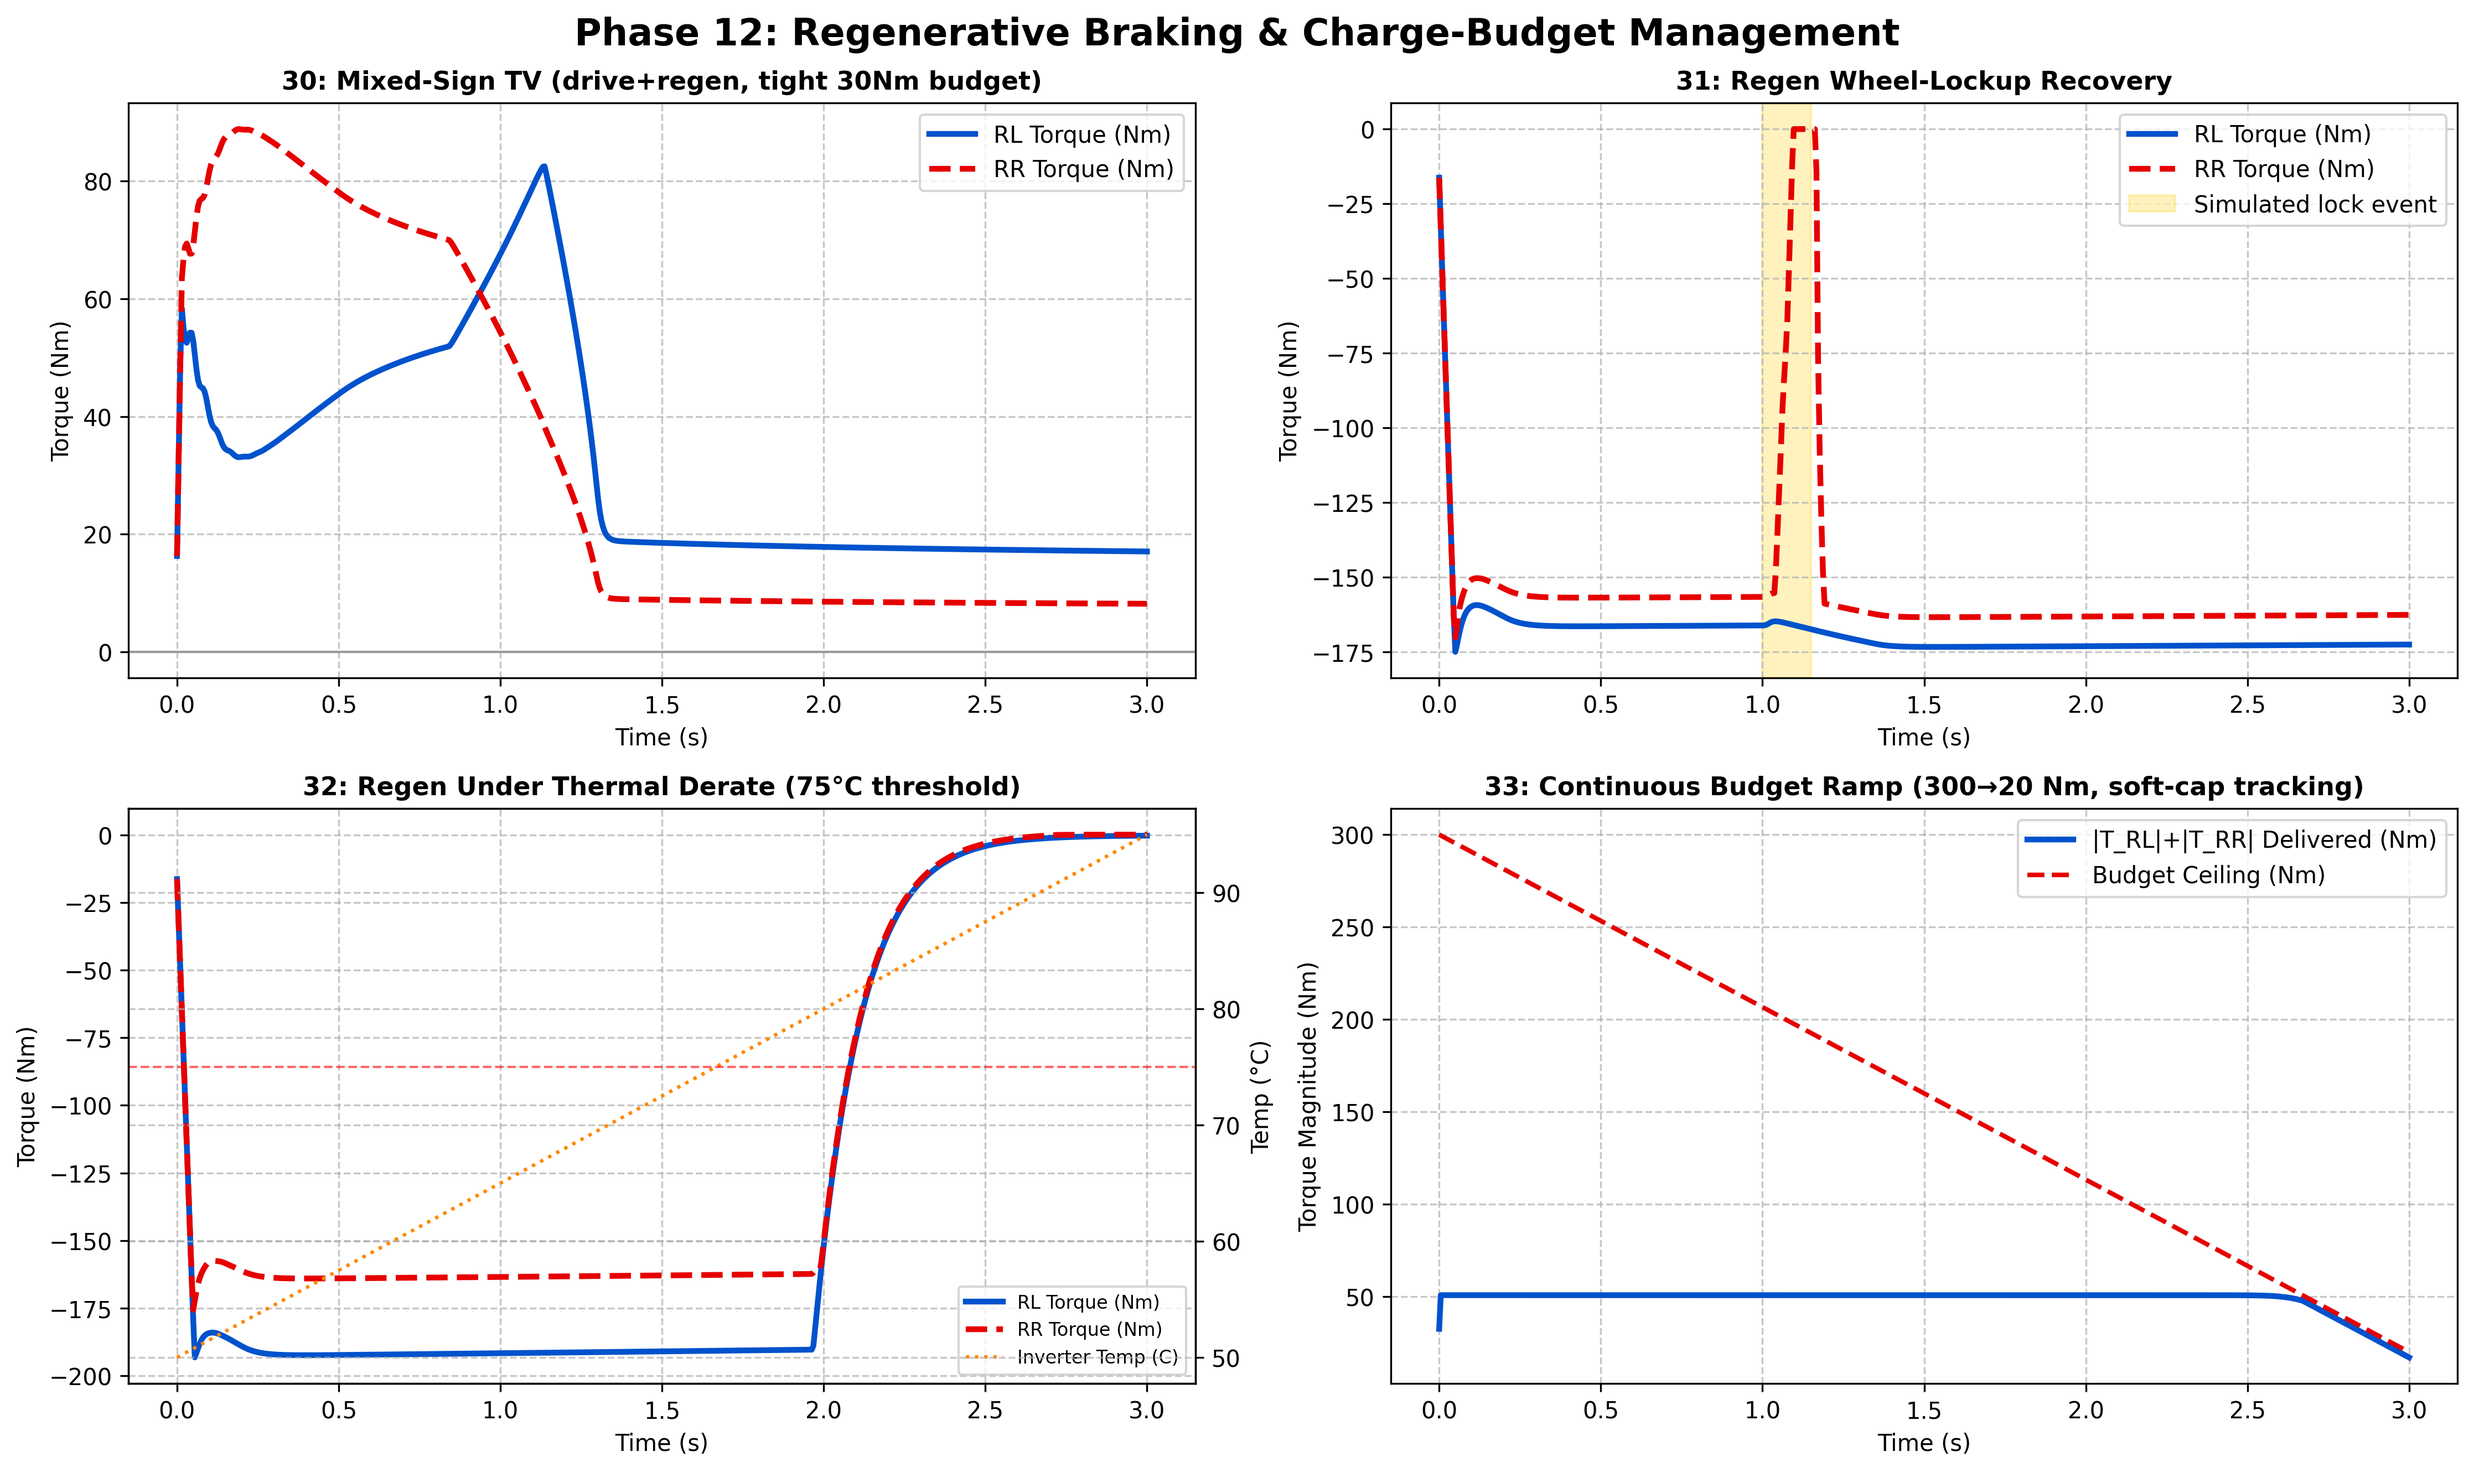
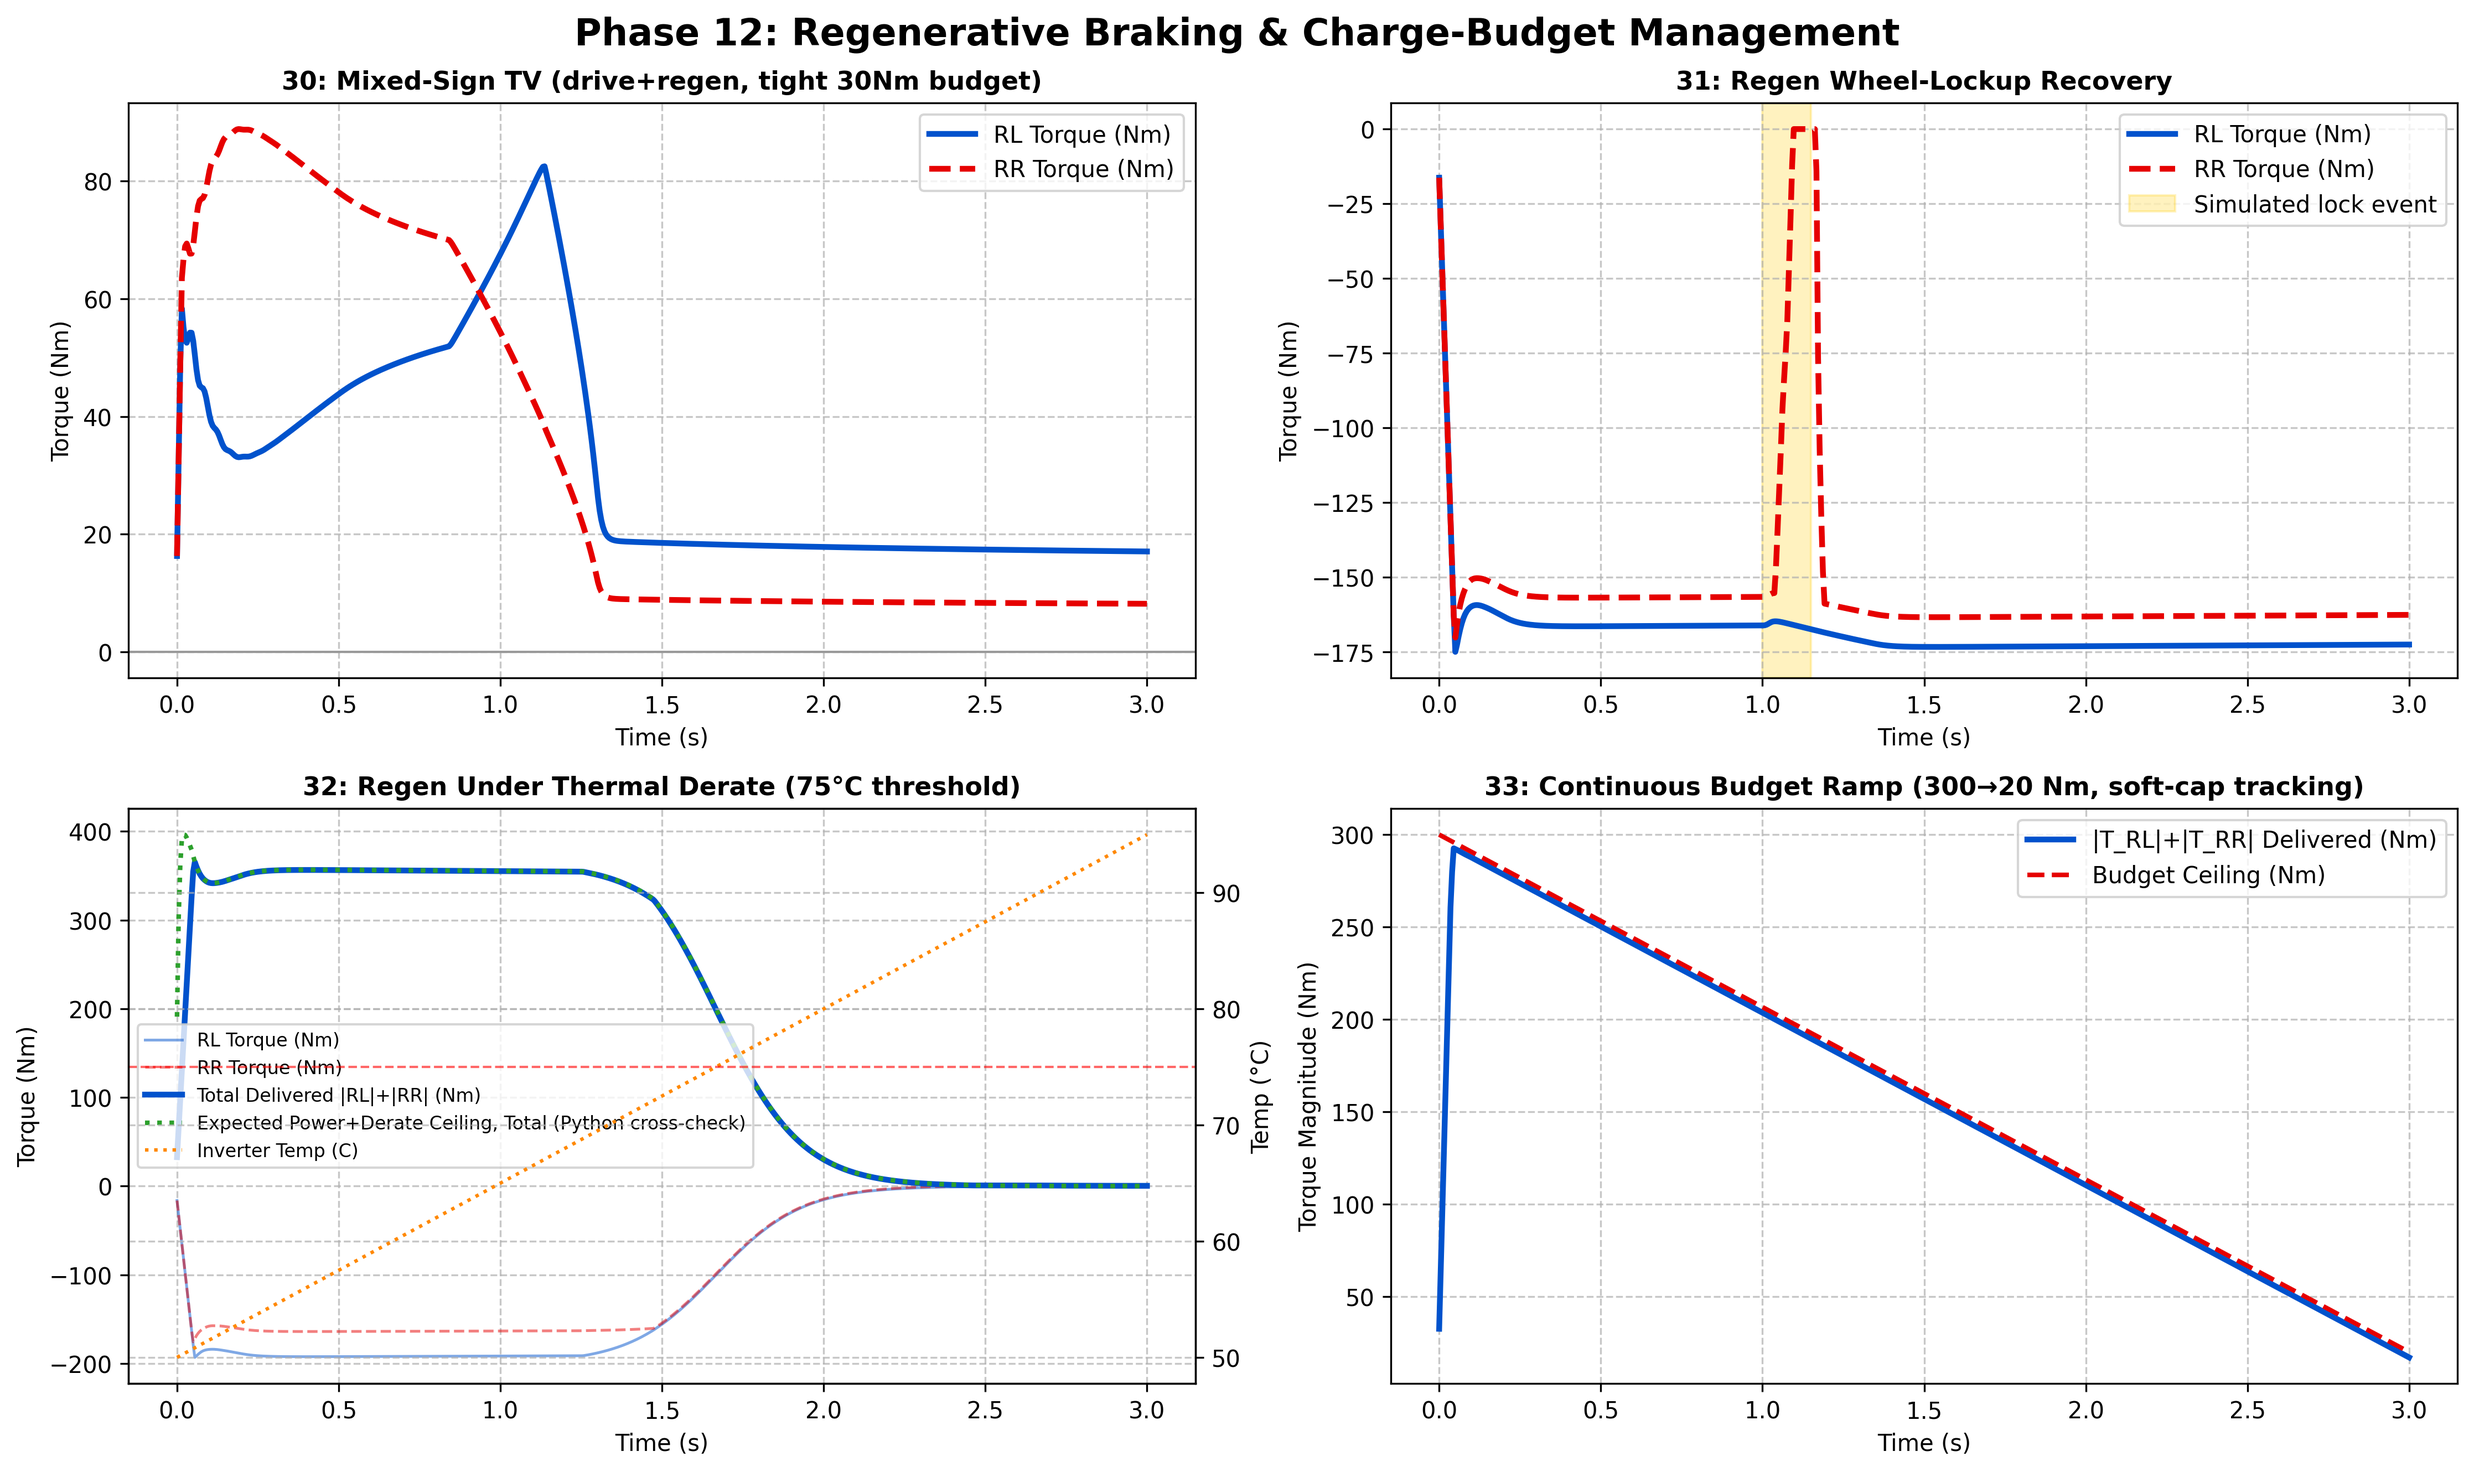
feat(v4): NMPC implementation and sanity checks trials

diff --git a/SOFTWARE/TeR_ECU/Libraries/TRQ_VECTORING/master_sanity_checks.py b/SOFTWARE/TeR_ECU/Libraries/TRQ_VECTORING/master_sanity_checks.py
@@ -572,7 +572,12 @@ def run_regen_budget_ramp():
         rg = default_regen_limits(enable=1, max_total_trq=budget, max_charge_power_w=40000.0)
 
         vx, delta, wz, ay = 20.0, 0.15, 0.3, 2.0
-        fx = -250.0  # constant heavy regen demand throughout
+        fx = -2000.0  # was -250.0: demand (50.8 Nm) never approached the
+                       # 300->20 Nm budget, so this scenario never exercised
+                       # the soft-cap rescale it exists to test. -2000N gives
+                       # a friction-ellipse ceiling (~316 Nm) that sits just
+                       # above the budget's starting point, so the budget is
+                       # the binding constraint for ~the entire ramp.
         w_rear = vx / 0.2032
         omega_c = (ctypes.c_float * 4)(0.0, 0.0, w_rear, w_rear)
         t_out_c = (ctypes.c_float * 4)()
@@ -593,7 +598,18 @@ def run_regen_budget_ramp():
 def run_regen_thermal_derate():
     """Runs scenario_regen_thermal_derate with a time-varying inverter
     temperature (scenario_regen_thermal_derate_temps), which run_scenario()
-    can't express since it holds temps fixed at 60/60C for the whole trace."""
+    can't express since it holds temps fixed at 60/60C for the whole trace.
+
+    The 'expected' ceiling is built from the ACTUAL friction-derived bound
+    the solver computes internally (state.t_lb_rl_filt / t_lb_rr_filt,
+    already exposed in TVState) combined with an independently-computed
+    power+derate term. Only the power+derate half is reproduced in Python;
+    the friction half comes straight from telemetry, so there's no
+    tire/aero model to get wrong a second time (previous attempt: guessed
+    16000W, meant to land ~163 Nm/wheel, actually computed 800 Nm/wheel --
+    an arithmetic slip, not a logic error -- so power was never within an
+    order of magnitude of friction and never became the binding term until
+    derate had crushed it far past irrelevance)."""
     time_steps = np.linspace(0, 3.0, 600)
     dt = time_steps[1] - time_steps[0]
 
@@ -601,9 +617,18 @@ def run_regen_thermal_derate():
     gp_lib.gp_tv_init(ctypes.byref(state))
     state.tc.mu_surface[0] = 1.5
     state.tc.mu_surface[1] = 1.5
-    rg = default_regen_limits(enable=1, max_total_trq=400.0, max_charge_power_w=40000.0)
 
-    rl_log, rr_log, temp_log = [], [], []
+    # Calibration target: cool-temp power bound (t_power = P/omega_safe,
+    # omega_safe ~= vx = 20 m/s here) should sit NEAR the real friction
+    # bound (printed below at runtime) so the 75C crossing is an actual
+    # knee, not a ceiling that was never in range. Verify the printed
+    # calibration line below on every run -- don't trust this constant
+    # blind, that's exactly the mistake made twice already.
+    MAX_CHARGE_POWER_W = 4000.0
+    rg = default_regen_limits(enable=1, max_total_trq=400.0, max_charge_power_w=MAX_CHARGE_POWER_W)
+
+    rl_log, rr_log, temp_log, expected_log = [], [], [], []
+    friction_at_t0 = None
 
     for t in time_steps:
         fx, delta, vx, vy, wz, ay, ax, omega, brake = scenario_regen_thermal_derate(t)
@@ -619,7 +644,30 @@ def run_regen_thermal_derate():
         rr_log.append(t_out_c[3])
         temp_log.append(temp_rl)
 
-    return time_steps, np.array(rl_log), np.array(rr_log), np.array(temp_log)
+        # Ground-truth friction bound straight from the solver's own state
+        # -- the same value gp_tv_step just used this tick. No independent
+        # tire/aero reproduction needed for this half.
+        friction_rl = state.t_lb_rl_filt
+        friction_rr = state.t_lb_rr_filt
+        if friction_at_t0 is None:
+            friction_at_t0 = 0.5 * (friction_rl + friction_rr)
+
+        # Independent reproduction of ONLY the power+derate term (simple,
+        # config-derived; mirrors gp_power_limited_t_lb + the thermal
+        # sigmoid in gp_tv_step).
+        omega_safe = np.log1p(np.exp(np.clip(np.array(omega[2:4]) * 0.2032, -50, 50)))
+        t_power = np.clip(MAX_CHARGE_POWER_W / (omega_safe + 1e-3), 0.0, 2000.0)
+        derate = 1.0 - 1.0 / (1.0 + np.exp(-np.clip((np.array([temp_rl, temp_rr]) - 75.0) * 0.5, -20, 20)))
+        power_bound = t_power * derate
+
+        expected_log.append(min(friction_rl, power_bound[0]) + min(friction_rr, power_bound[1]))
+
+    print(f"  [Test 32 calibration] Friction ceiling/wheel @ t=0 (50C): {friction_at_t0:6.1f} Nm | "
+          f"Power ceiling/wheel @ 50C: {MAX_CHARGE_POWER_W/20.0:6.1f} Nm -- "
+          f"{'OK, friction binds first' if friction_at_t0 < MAX_CHARGE_POWER_W/20.0 else 'RETUNE MAX_CHARGE_POWER_W: power binds even when cool'}")
+
+    return (time_steps, np.array(rl_log), np.array(rr_log),
+            np.array(temp_log), np.array(expected_log))
 
 def generate_phase12_report(time_steps):
     """Phase 12: Regenerative Braking & Charge-Budget Management.
@@ -649,10 +697,19 @@ def generate_phase12_report(time_steps):
     ax.set_xlabel('Time (s)'); ax.set_ylabel('Torque (Nm)'); ax.legend(loc='best')
 
     # --- Panel 3: Thermal derate under regen ---
-    t_therm, rl_therm, rr_therm, temp_therm = run_regen_thermal_derate()
+    t_therm, rl_therm, rr_therm, temp_therm, expected_therm = run_regen_thermal_derate()
     ax = axs[1, 0]
-    ax.plot(t_therm, rl_therm, color='#0052cc', linewidth=2.5, label='RL Torque (Nm)')
-    ax.plot(t_therm, rr_therm, color='#e60000', linewidth=2.5, linestyle='--', label='RR Torque (Nm)')
+    # Individual wheels kept for reference (thin), but the meaningful
+    # apples-to-apples comparison is TOTAL delivered vs TOTAL expected
+    # ceiling -- expected_therm sums both wheels, so plotting it against
+    # a single wheel's curve was comparing a sum to a half, making a
+    # correctly-tracking result look offset by ~2x.
+    ax.plot(t_therm, rl_therm, color='#0052cc', linewidth=1.2, alpha=0.5, label='RL Torque (Nm)')
+    ax.plot(t_therm, rr_therm, color='#e60000', linewidth=1.2, alpha=0.5, linestyle='--', label='RR Torque (Nm)')
+    ax.plot(t_therm, np.abs(rl_therm) + np.abs(rr_therm), color='#0052cc', linewidth=2.5,
+            label='Total Delivered |RL|+|RR| (Nm)')
+    ax.plot(t_therm, expected_therm, color='#2ca02c', linewidth=2.0, linestyle=':',
+            label='Expected Power+Derate Ceiling, Total (Python cross-check)')
     ax2 = ax.twinx()
     ax2.plot(t_therm, temp_therm, color='#ff8800', linewidth=1.5, linestyle=':', label='Inverter Temp (C)')
     ax2.axhline(75.0, color='#ff0000', linewidth=1.0, linestyle='--', alpha=0.6)
@@ -679,7 +736,7 @@ def generate_phase12_report(time_steps):
     print(f"✅ Generado: {output_path}")
     plt.close()
 
-    return (rl_mix, rr_mix, rl_lock, rr_lock, t_therm, rl_therm, rr_therm, temp_therm,
+    return (rl_mix, rr_mix, rl_lock, rr_lock, t_therm, rl_therm, rr_therm, temp_therm, expected_therm,
             t_ramp, rl_ramp, rr_ramp, budget_ramp, total_mag_ramp)
 
 
@@ -704,7 +761,7 @@ def run_phase12_regen_analysis(time_steps):
     print("  PHASE 12: REGENERATIVE BRAKING & CHARGE-BUDGET MANAGEMENT")
     print("=" * 80)
 
-    (rl_mix, rr_mix, rl_lock, rr_lock, t_therm, rl_therm, rr_therm, temp_therm,
+    (rl_mix, rr_mix, rl_lock, rr_lock, t_therm, rl_therm, rr_therm, temp_therm, expected_therm,
      t_ramp, rl_ramp, rr_ramp, budget_ramp, total_mag_ramp) = generate_phase12_report(time_steps)
 
     # --- Guard 1: mixed-sign drive preservation (tight vs loose budget) ---
@@ -732,22 +789,26 @@ def run_phase12_regen_analysis(time_steps):
         f"— sign-blind rescale regression."
     )
 
-    # --- Guard 2: thermal derate must be monotonically non-increasing past 75C ---
-    hot_mask = temp_therm > 75.0
+    # --- Guard 2: thermal derate must actually TRACK the expected power+derate
+    # ceiling, not just fail to increase. Monotonicity-only would still pass
+    # a flat, friction-limited line that never responds to temperature. ---
     regen_mag = np.abs(rl_therm) + np.abs(rr_therm)
-    if np.any(hot_mask):
-        regen_in_hot_region = regen_mag[hot_mask]
-        derate_monotonic = (regen_in_hot_region[-1] <= regen_in_hot_region[0] + 5.0)
-        regen_at_75 = regen_in_hot_region[0]
-    else:
-        derate_monotonic = True
-        regen_at_75 = float('nan')
+    hot_mask = temp_therm > 78.0  # a couple degrees past the sigmoid's
+                                   # inflection to skip the transition's soft shoulder
+    tracking_err = np.abs(regen_mag[hot_mask] - expected_therm[hot_mask])
+    derate_tracks = np.mean(tracking_err) < 15.0  # Nm
 
-    color2 = "\033[92m" if derate_monotonic else "\033[91m"
-    status2 = "PASS" if derate_monotonic else "FAIL"
-    print(f"{color2}{status2:<18}\033[0m | 32: Thermal Derate Monotonicity          | "
-          f"@75C: {regen_at_75:6.1f} Nm -> @95C: {regen_mag[-1]:6.1f} Nm")
-    assert derate_monotonic, "Regen torque increased past the 75C derate threshold — thermal derate regression."
+    cool_mask = temp_therm <= 75.0
+    pct_drop = 100.0 * (1.0 - regen_mag[-1] / regen_mag[cool_mask][-1]) if np.any(cool_mask) else float('nan')
+    derate_meaningful = pct_drop > 50.0  # must actually collapse near 95C, not just dip
+
+    ok2 = derate_tracks and derate_meaningful
+    color2 = "\033[92m" if ok2 else "\033[91m"
+    status2 = "PASS" if ok2 else "FAIL"
+    print(f"{color2}{status2:<18}\033[0m | 32: Thermal Derate Ceiling Tracking       | "
+          f"Mean err vs expected: {np.mean(tracking_err):5.1f} Nm | Drop@95C: {pct_drop:4.1f}%")
+    assert derate_tracks, f"Delivered regen doesn't track expected power/derate ceiling (err {np.mean(tracking_err):.1f} Nm)."
+    assert derate_meaningful, f"Thermal derate only reduced regen by {pct_drop:.1f}% — power bound isn't actually binding."
 
     # --- Guard 3: budget-ramp must track the soft cap within the rate
     # limiter's own combined-wheel ceiling (no jump BEYOND that ceiling) ---
@@ -766,6 +827,27 @@ def run_phase12_regen_analysis(time_steps):
         f"({MAX_COMBINED_SLEW_NM_S:.1f} Nm/s) — genuine discontinuity, not just the rate limiter's ceiling."
     )
     assert not over_budget, "Delivered regen magnitude exceeded the live budget ceiling during the ramp."
+
+    # --- Guard 4: tracking fidelity, not just ceiling compliance. Guard 3
+    # only proves delivered <= budget, which a flat demand-starved line also
+    # satisfies — that's exactly how this shipped broken (fx=-250 never
+    # approached the budget). This proves delivered actually FOLLOWS budget
+    # once budget is plausibly binding. ---
+    tracking_region = budget_ramp < 250.0   # skip the narrow band near t=0
+                                              # where friction (~316 Nm), not
+                                              # budget, is still technically tighter
+    tracking_region[:20] = False             # skip ~100ms EMA filter settle
+    tracking_err33 = np.abs(total_mag_ramp[tracking_region] - budget_ramp[tracking_region])
+    tracks_budget = np.mean(tracking_err33) < 8.0  # Nm: soft-cap softness (4Nm) + rate-limiter lag
+
+    status4 = "PASS" if tracks_budget else "FAIL"
+    color4 = "\033[92m" if tracks_budget else "\033[91m"
+    print(f"{color4}{status4:<18}\033[0m | 33: Budget Ramp Tracking Fidelity         | "
+          f"Mean |delivered-budget|: {np.mean(tracking_err33):5.2f} Nm (limit 8.0)")
+    assert tracks_budget, (
+        f"Delivered magnitude doesn't track the budget ceiling (mean err "
+        f"{np.mean(tracking_err33):.2f} Nm) — demand-starved, not exercising the rescale."
+    )
 
     print("=" * 80)
     print(f"PHASE 12 SUMMARY | Mixed-sign drive delta: {drive_delta:.2f} Nm | "
